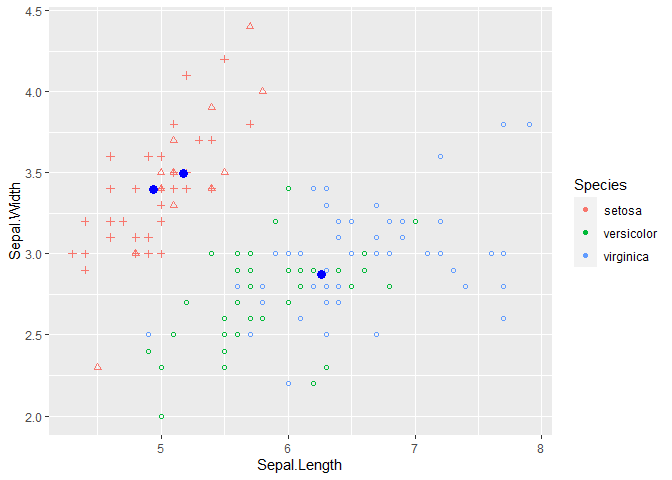
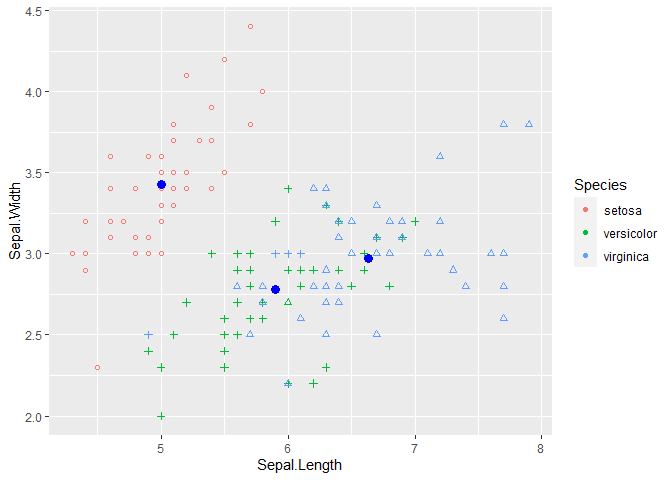
Readme Updated with Figures

diff --git a/README.md b/README.md
@@ -34,18 +34,18 @@ kmodel$betweenss / kmodel$totss
 table(iris$Species, kmodel$cluster)
 #>             
 #>               1  2  3
-#>   setosa      0 50  0
-#>   versicolor 48  0  2
-#>   virginica  14  0 36
+#>   setosa      0  0 50
+#>   versicolor 48  2  0
+#>   virginica  14 36  0
 
 mymodel <- k_means(iris[,1:4], 3)
 mymodel$ssbetween / mymodel$sstotal
-#> [1] 0.7895522
+#> [1] 0.7851997
 table(iris$Species, mymodel$assign)
 #>             
 #>               1  2  3
-#>   setosa     21 29  0
-#>   versicolor  3  0 47
+#>   setosa     18 32  0
+#>   versicolor  4  0 46
 #>   virginica   0  0 50
 ```
 
@@ -65,19 +65,19 @@ kmodel$betweenss / kmodel$totss
 table(mtcars$cyl, kmodel$cluster)
 #>    
 #>      1  2  3
-#>   4  0  0 11
-#>   6  2  0  5
-#>   8  5  9  0
+#>   4 11  0  0
+#>   6  5  0  2
+#>   8  0  9  5
 
 mymodel <- k_means(mttrain, 3, T)
 mymodel$ssbetween / mymodel$sstotal
-#> [1] 0.8087915
+#> [1] 0.8343965
 table(mtcars$cyl, mymodel$assign)
 #>    
 #>      1  2  3
-#>   4  0  0 11
-#>   6  7  0  0
-#>   8  0 14  0
+#>   4 11  0  0
+#>   6  6  0  1
+#>   8  0  4 10
 ```
 
 ### Hierarchical Clustering
@@ -104,9 +104,9 @@ iris_clust <- em_clust(dat, 3)
 table(iris_clust$group, iris$Species)
 #>    
 #>     setosa versicolor virginica
-#>   1      0         50        50
-#>   2     14          0         0
-#>   3     36          0         0
+#>   1     50          0         0
+#>   2      0          3        46
+#>   3      0         47         4
 ```
 
 ``` r
